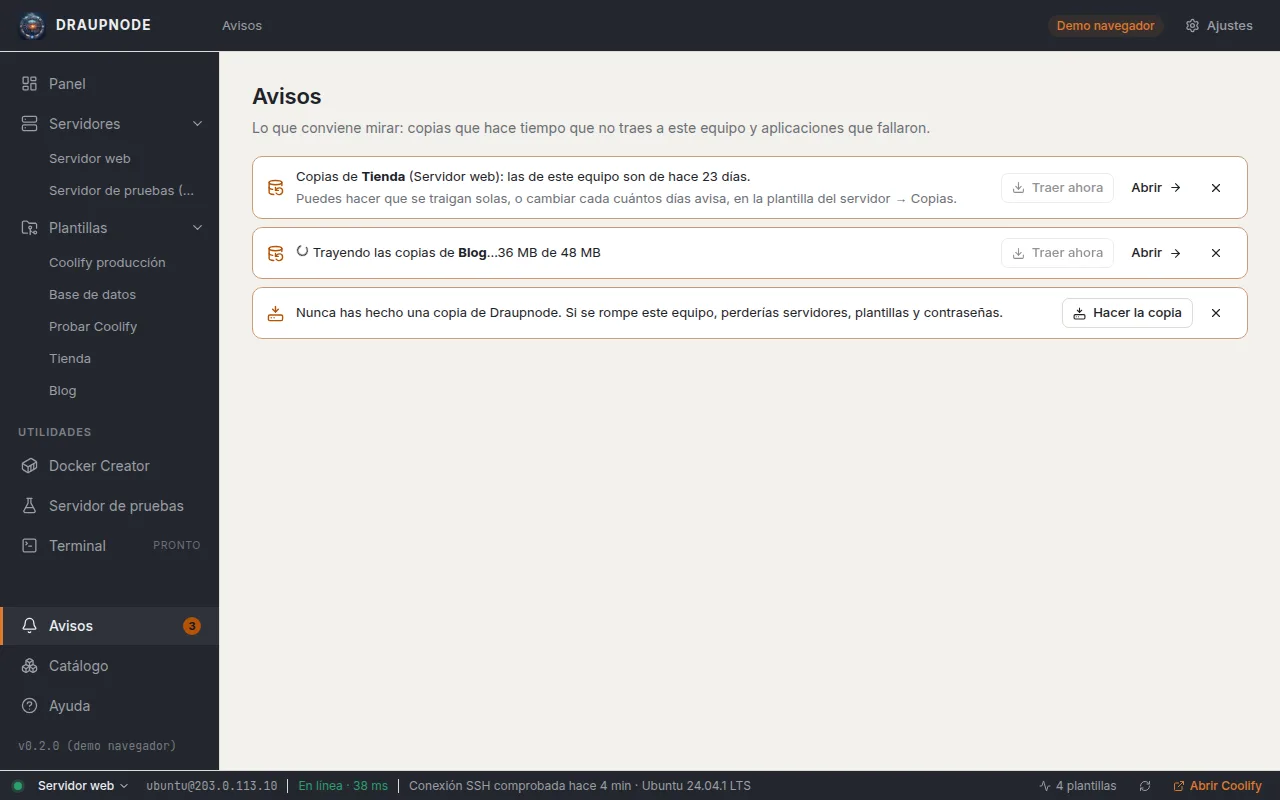
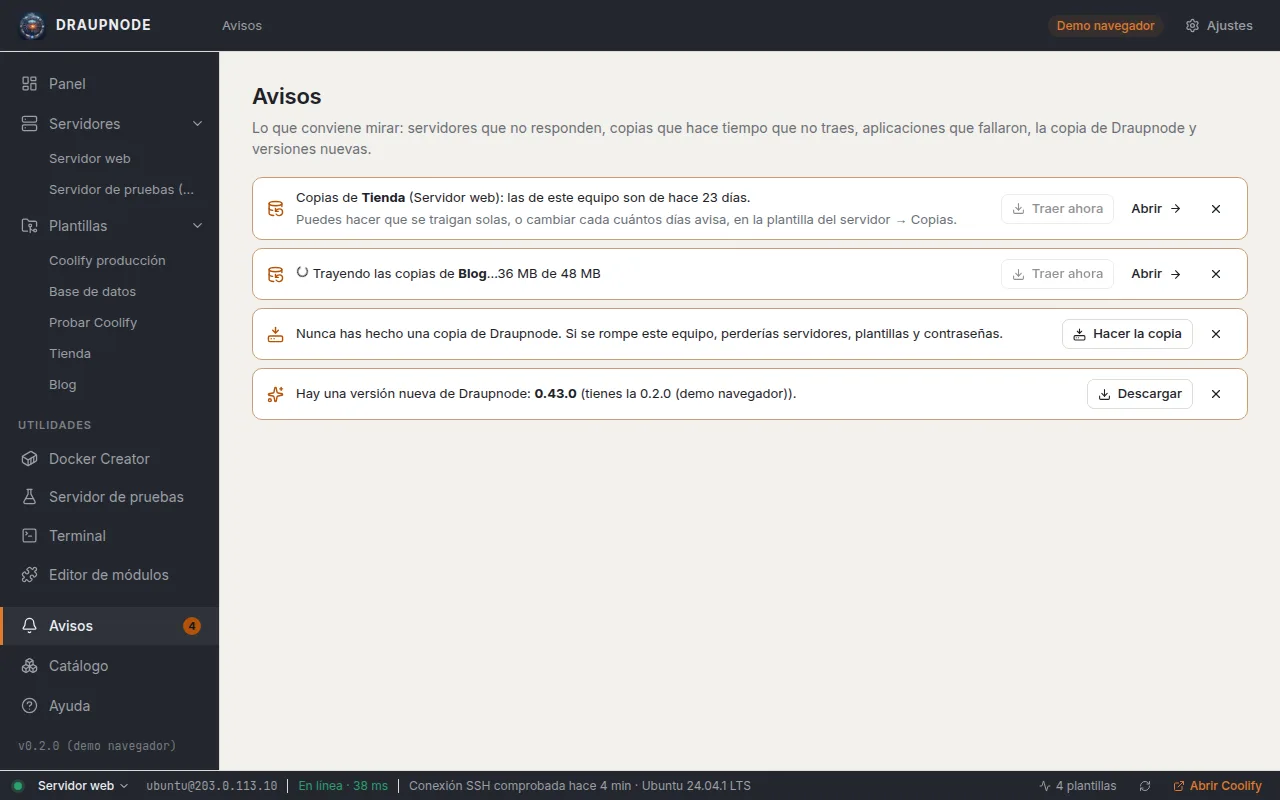
Ficha del servidor que se actualiza sola y aviso de servidores que no responden (0.44.0)

diff --git a/frontend/src/lib/help.ts b/frontend/src/lib/help.ts
@@ -52,6 +52,7 @@ export const HELP: HelpSection[] = [
     intro: 'Las máquinas que Draupnode va a preparar y cómo conectarse a ellas por SSH.',
     steps: [
       { title: 'Lista', text: 'Cada tarjeta muestra la conexión (usuario@IP), cómo se entra (clave o contraseña), el resultado de la última prueba y los datos del servidor. Pulsa la tarjeta para abrir su ficha.', img: 'servidores' },
+      { title: 'Actualizar sola', text: 'Arriba, «Actualizar sola» vuelve a leer el servidor cada 30 s, 1 min o 5 min mientras tienes la ficha abierta. Si su contraseña no está guardada, lo dice y espera a que pulses «Actualizar».' },
       { title: 'Ficha del servidor', text: 'Es la pieza principal. Al abrirla se conecta por SSH (solo lee) y enseña: CPU, memoria, discos y tiempo encendido; avisos de contenedores caídos o servicios con fallos; las plantillas que tiene (o «Asociar» una); las apps con sus direcciones (las de Draupnode con «Abrir», las de Coolify y los sitios de nginx/Caddy aunque no los instalara Draupnode); las bases de datos y lo que pesa cada una; los contenedores con su uso y su registro; los puertos abiertos; los registros del sistema y las contraseñas generadas. «Actualizar» vuelve a leerlo; «Editar conexión» cambia sus datos.', img: 'servidor' },
       { title: 'La plantilla en un servidor', text: 'Desde la ficha, «Abrir» lleva a la pantalla de siempre: módulos, previsualizar, aplicar, copias… Lo que cambies aquí (añadir un módulo, poner un dominio) es solo de este servidor y se instala al pulsar «Configurar y aplicar». Arriba, en una fila: el servidor, la plantilla y si este servidor tiene algo distinto. «Llevar a la plantilla» pasa lo propio de este servidor a la plantilla (y a los demás servidores que la usan, como «cambios sin aplicar»); «Volver a la plantilla» quita lo propio de este servidor. Ninguno de los dos instala ni desinstala nada. «Editar plantilla» la abre para todos sus servidores. «Desasociar la plantilla del servidor» la quita de Draupnode sin desinstalar nada.', img: 'despliegue' },
       { title: 'Añadir servidor', text: 'Nombre, IP o dominio, puerto (22 normalmente) y usuario. Elige la clave de la lista (salen las de ~/.ssh) o escribe una contraseña. Si la clave tiene contraseña, marca «tiene contraseña» y decide si guardarla.', img: 'servidor-nuevo' },
@@ -160,6 +161,7 @@ export const HELP: HelpSection[] = [
     steps: [
       { title: 'Copias sin traer', img: 'avisos', text: 'Un servidor con Copias cuyas copias hace tiempo (o nunca) que no traes a este equipo. «Traer ahora» las descarga. En la plantilla del servidor → Copias eliges cada cuántos días avisa, que se traigan solas al abrir la app o que no avise.' },
       { title: 'Aplicaciones que fallaron', text: 'La última vez que pulsaste «Aplicar» en ese servidor hubo un error. «Abrir» lleva allí para ver qué pasó; desaparece cuando vuelve a aplicarse bien.' },
+      { title: 'Servidores que no responden', text: 'Mientras Draupnode está abierto, cada 2 minutos mira si el SSH de cada servidor responde (sin entrar). Si falla dos veces seguidas, avisa; cuando vuelve, el aviso se quita solo. El servidor de pruebas no cuenta (es normal que esté parado). Para enterarte con la app cerrada, usa el módulo «Alertas» en otro servidor («Vigilar otros servidores»).' },
       { title: 'Versión nueva', text: 'Al abrir, Draupnode mira en GitHub la última versión publicada (una consulta anónima; se puede desactivar en Ajustes). Si hay una más nueva, «Descargar» abre su página.' },
       { title: 'Ocultar', text: 'La ✕ lo quita hasta la próxima vez que abras la app.' },
     ],

diff --git a/frontend/src/lib/alerts.svelte.ts b/frontend/src/lib/alerts.svelte.ts
@@ -1,7 +1,7 @@
 // Avisos de la app: lo que conviene mirar, en un solo sitio (pantalla
 // «Avisos», el número en el menú y la campana de arriba). Así no hace falta
 // una franja en todas las pantallas: solo el Panel los enseña.
-import { api, onEvent, type BackupDue, type BackupFetchProgress, type BackupResult } from './api'
+import { api, isDesktop, onEvent, type BackupDue, type BackupFetchProgress, type BackupResult } from './api'
 import { ui, toast, refreshProjects } from './state.svelte'
 import { withConnection } from './connect'
 
@@ -10,6 +10,38 @@ export type AlertItem =
   | { kind: 'failed'; key: string; projectId: string; name: string; server: string; at: string; error: string }
   | { kind: 'export'; key: string; last: string | null }
   | { kind: 'update'; key: string; latest: string; url: string }
+  | { kind: 'down'; key: string; serverId: string; name: string; since: string }
+
+// Vigilancia de los servidores mientras la app está abierta: cada
+// WATCH_SECONDS se mira si su SSH responde; tras DOWN_AFTER fallos seguidos,
+// aviso. (Un servidor no puede avisar de que él mismo se ha caído.)
+export const WATCH_SECONDS = 120
+// (En la demo del navegador, al primer fallo, para poder verlo.)
+export const DOWN_AFTER = isDesktop ? 2 : 1
+let watching = false
+export function watchServers() {
+  if (watching) return
+  watching = true
+  const tick = async () => {
+    try {
+      for (const p of await api.PingServers()) {
+        if (p.lab) continue
+        const d = alerts.down[p.id]
+        if (p.reachable) {
+          if (d && d.fails >= DOWN_AFTER) {
+            const name = ui.servers.find((x) => x.id === p.id)?.name ?? 'El servidor'
+            toast(`${name} vuelve a responder`)
+          }
+          delete alerts.down[p.id]
+        } else {
+          alerts.down[p.id] = { fails: (d?.fails ?? 0) + 1, since: d?.since ?? new Date().toISOString() }
+        }
+      }
+    } catch { /* siguiente vuelta */ }
+  }
+  tick()
+  setInterval(tick, WATCH_SECONDS * 1000)
+}
 
 // Cada cuántos días se recuerda hacer la copia de Draupnode.
 export const EXPORT_DAYS = 30
@@ -23,6 +55,8 @@ export const alerts = $state({
   lastExport: undefined as string | null | undefined,
   // Versión nueva de Draupnode publicada (null = no hay o no se sabe).
   update: null as { latest: string; url: string } | null,
+  // Servidores que no responden: fallos seguidos y desde cuándo.
+  down: {} as Record<string, { fails: number; since: string }>,
   progress: null as BackupFetchProgress | null,
 })
 
@@ -49,6 +83,10 @@ export function alertItems(): AlertItem[] {
   const le = alerts.lastExport
   if (le !== undefined && ui.servers.length && (!le || Date.now() - new Date(le).getTime() > EXPORT_DAYS * 86400000)) {
     out.push({ kind: 'export', key: 'e', last: le })
+  }
+  for (const [sid, d] of Object.entries(alerts.down)) {
+    const srv = ui.servers.find((x) => x.id === sid)
+    if (srv && d.fails >= DOWN_AFTER) out.push({ kind: 'down', key: 'd:' + sid + ':' + d.since, serverId: sid, name: srv.name, since: d.since })
   }
   if (alerts.update) out.push({ kind: 'update', key: 'u:' + alerts.update.latest, ...alerts.update })
   return out.filter((a) => !alerts.hidden.includes(a.key))

diff --git a/frontend/src/components/AlertsList.svelte b/frontend/src/components/AlertsList.svelte
@@ -1,8 +1,8 @@
 <script lang="ts">
   // La lista de avisos (pantalla «Avisos» y, si hay, arriba del Panel).
-  import { DatabaseBackup, Download, LoaderCircle, X, CircleX, ArrowRight, HardDriveDownload, Sparkles } from '@lucide/svelte'
+  import { DatabaseBackup, Download, LoaderCircle, X, CircleX, ArrowRight, HardDriveDownload, Sparkles, ServerCrash } from '@lucide/svelte'
   import { alerts, alertItems, hideAlert, fetchBackups } from '../lib/alerts.svelte'
-  import { openDeployment, timeAgo, ui } from '../lib/state.svelte'
+  import { openDeployment, openServer, timeAgo, ui } from '../lib/state.svelte'
   import { api } from '../lib/api'
 
   let { compact = false }: { compact?: boolean } = $props()
@@ -12,8 +12,8 @@
 
 <div class="alerts" class:compact>
   {#each items as a (a.key)}
-    <div class="card alert" class:bad={a.kind === 'failed'}>
-      {#if a.kind === 'backups'}<DatabaseBackup size={17} />{:else if a.kind === 'export'}<HardDriveDownload size={17} />{:else if a.kind === 'update'}<Sparkles size={17} />{:else}<CircleX size={17} />{/if}
+    <div class="card alert" class:bad={a.kind === 'failed' || a.kind === 'down'}>
+      {#if a.kind === 'backups'}<DatabaseBackup size={17} />{:else if a.kind === 'export'}<HardDriveDownload size={17} />{:else if a.kind === 'update'}<Sparkles size={17} />{:else if a.kind === 'down'}<ServerCrash size={17} />{:else}<CircleX size={17} />{/if}
       <div class="txt">
         {#if a.kind === 'backups'}
           {#if alerts.busy === a.projectId}
@@ -22,6 +22,9 @@
             <span>Copias de <strong>{a.name}</strong>{#if a.server}{' '}({a.server}){/if}: {a.due.age < 0 ? 'nunca las has traído a este equipo' : `las de este equipo son de hace ${a.due.age} días`}.</span>
             {#if !compact}<span class="muted small">Puedes hacer que se traigan solas, o cambiar cada cuántos días avisa, en la plantilla del servidor → Copias.</span>{/if}
           {/if}
+        {:else if a.kind === 'down'}
+          <span><strong>{a.name}</strong> no responde por SSH desde {timeAgo(a.since)}.</span>
+          {#if !compact}<span class="muted small">Puede estar apagado, sin red o con el puerto SSH cerrado. Si vuelve, este aviso se quita solo.</span>{/if}
         {:else if a.kind === 'update'}
           <span>Hay una versión nueva de Draupnode: <strong>{a.latest}</strong> (tienes la {ui.info?.version}).</span>
         {:else if a.kind === 'export'}
@@ -35,7 +38,9 @@
         {#if a.kind === 'backups'}
           <button class="btn sm" onclick={() => fetchBackups(a.due)} disabled={!!alerts.busy}><Download size={13} /> Traer ahora</button>
         {/if}
-        {#if a.kind === 'update'}
+        {#if a.kind === 'down'}
+          <button class="btn sm ghost" onclick={() => openServer(a.serverId)}>Ficha <ArrowRight size={13} /></button>
+        {:else if a.kind === 'update'}
           <button class="btn sm" onclick={() => api.OpenURL(a.url)}><Download size={13} /> Descargar</button>
         {:else if a.kind === 'export'}
           <button class="btn sm" onclick={() => (ui.view = 'settings')}><HardDriveDownload size={13} /> Hacer la copia</button>

diff --git a/frontend/src/views/ServerDetail.svelte b/frontend/src/views/ServerDetail.svelte
@@ -45,6 +45,33 @@
   }
   onMount(load)
 
+  // Actualizar sola: cada cierto tiempo, sin pedir nada (si hace falta una
+  // contraseña que no está guardada, lo dice y espera a «Actualizar»).
+  const AUTO_OPTS = [[0, 'No'], [30, '30 s'], [60, '1 min'], [300, '5 min']] as const
+  let auto = $state(readAuto())
+  let autoNote = $state('')
+  function readAuto(): number {
+    try { return Number(localStorage.getItem('dn-ficha-auto') ?? 60) || 0 } catch { return 60 }
+  }
+  function setAuto(v: number) {
+    auto = v
+    autoNote = ''
+    try { localStorage.setItem('dn-ficha-auto', String(v)) } catch { /* sin almacenamiento */ }
+  }
+  async function silent() {
+    if (loading || !ov || document.hidden || ui.view !== 'servers' || ui.serverId !== id) return
+    try {
+      const r = await api.ServerOverview(id, '', '', '')
+      if (r.status === 'ok' && r.overview) { ov = r.overview; autoNote = '' }
+      else if (['needs_secret', 'vault_locked', 'needs_sudo'].includes(r.status)) autoNote = 'para actualizar sola necesita la contraseña guardada (o la bóveda abierta)'
+    } catch { /* siguiente vuelta */ }
+  }
+  $effect(() => {
+    if (!auto) return
+    const t = setInterval(silent, auto * 1000)
+    return () => clearInterval(t)
+  })
+
   async function showLogs(kind: string, name: string, title: string) {
     logs = { title, kind, name, text: '', loading: true }
     const r = await withConnection<ServerLogsResult>(server, (s, a, u) => api.ServerLogs(id, kind, name, 400, s, a, u))
@@ -113,7 +140,12 @@
   <div class="bar">
     <button class="btn ghost sm" onclick={() => (ui.serverId = null)}><ArrowLeft size={15} /> Servidores</button>
     <div class="spacer"></div>
-    {#if ov}<span class="muted small">Leído {timeAgo(new Date(ov.at * 1000).toISOString())}</span>{/if}
+    {#if ov}<span class="muted small" title={autoNote}>Leído {timeAgo(new Date(ov.at * 1000).toISOString())}{autoNote ? ' · ' + autoNote : ''}</span>{/if}
+    <label class="auto muted small" title="Volver a leer el servidor solo">Actualizar sola
+      <select class="input" value={auto} onchange={(e) => setAuto(Number((e.currentTarget as HTMLSelectElement).value))}>
+        {#each AUTO_OPTS as [v, l]}<option value={v}>{l}</option>{/each}
+      </select>
+    </label>
     <button class="btn sm" onclick={() => server && openTerminal(server.id)}><SquareTerminal size={14} /> Terminal</button>
     <button class="btn sm" onclick={load} disabled={loading}>{#if loading}<LoaderCircle size={14} class="spin" />{:else}<RefreshCw size={14} />{/if} Actualizar</button>
     <button class="btn sm" onclick={() => (editing = true)}><Pencil size={14} /> Editar conexión</button>
@@ -340,6 +372,8 @@
 <style>
   .bar { display: flex; align-items: center; gap: 8px; margin-bottom: 10px; }
   .spacer { flex: 1; }
+  .auto { display: inline-flex; gap: 6px; align-items: center; }
+  .auto .input { height: 28px; padding: 0 6px; width: auto; font-size: 12.5px; }
   .head { display: flex; align-items: baseline; gap: 10px; flex-wrap: wrap; margin-bottom: 4px; }
   .head h1 { margin: 0; }
   .notes { margin: 0 0 12px; }

diff --git a/frontend/src/lib/api.ts b/frontend/src/lib/api.ts
@@ -604,6 +604,7 @@ interface Backend {
   ProjectSecretsInfo(projectId: string): Promise<ProjectSecretsSummary>
   ProjectSecrets(projectId: string, master: string): Promise<ProjectSecret[]>
   BackupStatus(): Promise<{ lastExport?: string | null }>
+  PingServers(): Promise<{ id: string; reachable: boolean; latencyMs: number; lab: boolean }[]>
   CheckUpdate(): Promise<{ current: string; latest: string; newer: boolean; url: string; notes?: string; enabled: boolean }>
   SetUpdateCheck(enabled: boolean): Promise<void>
   TerminalOpen(serverId: string, secret: string, accept: string, cols: number, rows: number): Promise<RunStart & { id?: string }>
@@ -1096,6 +1097,9 @@ function mockBackend(): Backend {
     async TerminalResize() {},
     async TerminalClose(id) {
       if (mockTerms[id]) { delete mockTerms[id]; mockEmit('term', { id, closed: true, reason: 'Sesión terminada.' }) }
+    },
+    async PingServers() {
+      return servers.map((x) => ({ id: x.id, reachable: !load<string[]>('caidos', []).includes(x.id), latencyMs: 38, lab: x.id === 'lab' }))
     },
     async CheckUpdate() {
       const enabled = !load('noUpdateCheck', false)

diff --git a/frontend/src/App.svelte b/frontend/src/App.svelte
@@ -19,7 +19,7 @@
   import Alerts from './views/Alerts.svelte'
   import TerminalView from './views/Terminal.svelte'
   import ModuleEditor from './views/ModuleEditor.svelte'
-  import { alertItems, loadAlerts } from './lib/alerts.svelte'
+  import { alertItems, loadAlerts, watchServers } from './lib/alerts.svelte'
   import { ui, boot, toast, openServer, openRecipe, type View } from './lib/state.svelte'
   import { errorText, isDesktop } from './lib/api'
 
@@ -83,6 +83,7 @@
     }
     ready = true
     loadAlerts()
+    watchServers()
   })
   const alertCount = $derived(alertItems().length)
   // La terminal se monta la primera vez que se abre y ya no se desmonta.

diff --git a/frontend/wailsjs/go/models.ts b/frontend/wailsjs/go/models.ts
@@ -1278,6 +1278,24 @@ export namespace main {
 	        this.overview = source["overview"];
 	    }
 	}
+	export class ServerPing {
+	    id: string;
+	    reachable: boolean;
+	    latencyMs: number;
+	    lab: boolean;
+	
+	    static createFrom(source: any = {}) {
+	        return new ServerPing(source);
+	    }
+	
+	    constructor(source: any = {}) {
+	        if ('string' === typeof source) source = JSON.parse(source);
+	        this.id = source["id"];
+	        this.reachable = source["reachable"];
+	        this.latencyMs = source["latencyMs"];
+	        this.lab = source["lab"];
+	    }
+	}
 	export class ServerView {
 	    id: string;
 	    name: string;

diff --git a/frontend/src/views/Alerts.svelte b/frontend/src/views/Alerts.svelte
@@ -4,7 +4,7 @@
 
 <div class="head">
   <h1>Avisos</h1>
-  <p class="muted">Lo que conviene mirar: copias que hace tiempo que no traes, aplicaciones que fallaron, la copia de Draupnode y versiones nuevas.</p>
+  <p class="muted">Lo que conviene mirar: servidores que no responden, copias que hace tiempo que no traes, aplicaciones que fallaron, la copia de Draupnode y versiones nuevas.</p>
 </div>
 <AlertsList />
 

diff --git a/frontend/wailsjs/go/main/App.d.ts b/frontend/wailsjs/go/main/App.d.ts
@@ -134,6 +134,8 @@ export function OpenUserModuleDir(arg1:string):Promise<void>;
 
 export function PickKeyFile():Promise<string>;
 
+export function PingServers():Promise<Array<main.ServerPing>>;
+
 export function ProjectRecipeDiff(arg1:string):Promise<main.RecipeDiff>;
 
 export function ProjectSecrets(arg1:string,arg2:string):Promise<Array<main.ProjectSecret>>;

diff --git a/frontend/wailsjs/go/main/App.js b/frontend/wailsjs/go/main/App.js
@@ -258,6 +258,10 @@ export function PickKeyFile() {
   return window['go']['main']['App']['PickKeyFile']();
 }
 
+export function PingServers() {
+  return window['go']['main']['App']['PingServers']();
+}
+
 export function ProjectRecipeDiff(arg1) {
   return window['go']['main']['App']['ProjectRecipeDiff'](arg1);
 }

diff --git a/app_status_test.go b/app_status_test.go
@@ -2,9 +2,13 @@ package main
 
 import (
 	"context"
+	"net"
 	"net/http"
 	"net/http/httptest"
 	"testing"
+
+	"draupnode/internal/secrets"
+	"draupnode/internal/store"
 )
 
 func TestFirstWebPrefersListOrder(t *testing.T) {
@@ -20,5 +24,36 @@ func TestFirstWebPrefersListOrder(t *testing.T) {
 	}
 	if _, ok := firstWeb(ctx, []webCandidate{{"http://127.0.0.1:1", "Coolify"}}); ok {
 		t.Fatal("un puerto cerrado no es una web")
+	}
+}
+
+func TestPingServers(t *testing.T) {
+	a := newTestApp(t, secrets.Memory{})
+	l, err := net.Listen("tcp", "127.0.0.1:0")
+	if err != nil {
+		t.Fatal(err)
+	}
+	defer l.Close()
+	go func() {
+		for {
+			c, err := l.Accept()
+			if err != nil {
+				return
+			}
+			c.Close()
+		}
+	}()
+	port := l.Addr().(*net.TCPAddr).Port
+	up, _ := a.store.SaveServer(store.Server{Name: "vivo", Host: "127.0.0.1", Port: port, User: "root", AuthMethod: store.AuthPassword})
+	l2, _ := net.Listen("tcp", "127.0.0.1:0")
+	closed := l2.Addr().(*net.TCPAddr).Port
+	l2.Close()
+	down, _ := a.store.SaveServer(store.Server{Name: "caido", Host: "127.0.0.1", Port: closed, User: "root", AuthMethod: store.AuthPassword})
+	got := map[string]bool{}
+	for _, p := range a.PingServers() {
+		got[p.ID] = p.Reachable
+	}
+	if !got[up.ID] || got[down.ID] || len(got) != 2 {
+		t.Fatalf("%v", got)
 	}
 }

diff --git a/app_status.go b/app_status.go
@@ -126,3 +126,36 @@ func coolifyURLFor(srv store.Server) string {
 }
 
 func isLabServer(srv store.Server) bool { return srv.Host == lab.Host && srv.Port == lab.SSHPort }
+
+// ServerPing: si el SSH de un servidor responde (para los avisos).
+type ServerPing struct {
+	ID        string `json:"id"`
+	Reachable bool   `json:"reachable"`
+	LatencyMs int    `json:"latencyMs"`
+	Lab       bool   `json:"lab"` // el servidor de pruebas de este equipo (puede estar parado a propósito)
+}
+
+// PingServers comprueba a la vez (sin autenticarse) todos los servidores.
+func (a *App) PingServers() []ServerPing {
+	srvs := a.store.Servers()
+	out := make([]ServerPing, len(srvs))
+	var wg sync.WaitGroup
+	for i, s := range srvs {
+		wg.Add(1)
+		go func(i int, s store.Server) {
+			defer wg.Done()
+			out[i] = ServerPing{ID: s.ID, Lab: isLabServer(s)}
+			ctx, cancel := context.WithTimeout(a.context(), 6*time.Second)
+			defer cancel()
+			start := time.Now()
+			var d net.Dialer
+			if c, err := d.DialContext(ctx, "tcp", net.JoinHostPort(s.Host, strconv.Itoa(s.Port))); err == nil {
+				c.Close()
+				out[i].Reachable = true
+				out[i].LatencyMs = int(time.Since(start).Milliseconds())
+			}
+		}(i, s)
+	}
+	wg.Wait()
+	return out
+}
